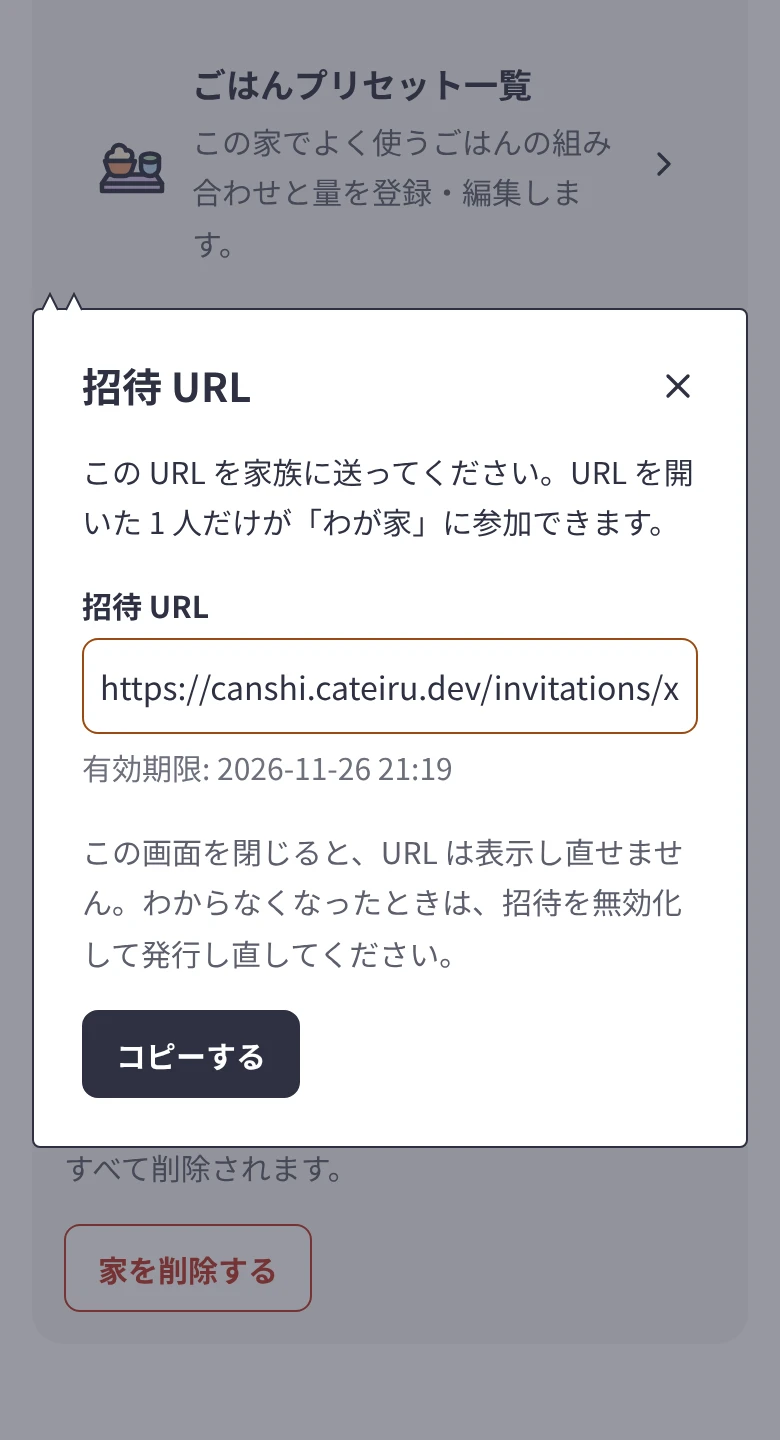
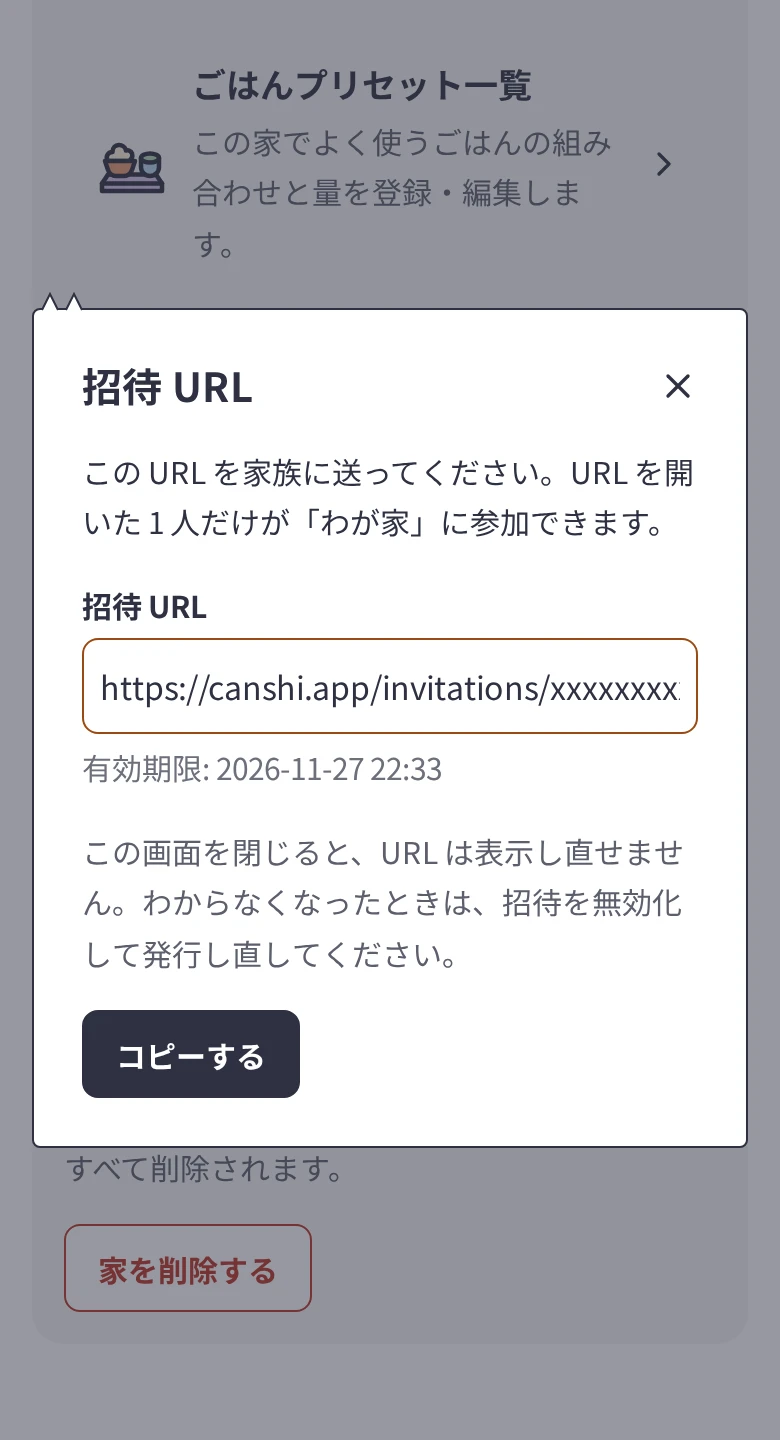
本番のドメインを canshi.app・管理画面を admin.canshi.app にする
- メインアプリの wrangler.toml に canshi.app のカスタムドメインを書き、workers.dev を無効にする
- 管理画面のカスタムドメインを admin.canshi.app にする
- デプロイ手順に本番のドメインと、ホスト名を変えるときの手順を書く
- ヘルプの招待 URL のスクリーンショットを新しいドメインで撮り直す

Closes #604

Claude-Session: https://claude.ai/code/session_01GXATvgY7GBav8iYF6mFh3K

diff --git a/e2e/help-screenshots.capture.ts b/e2e/help-screenshots.capture.ts
@@ -321,7 +321,7 @@ test("ヘルプのスクリーンショットを撮る", async ({ page, browser 
     .getByLabel("招待 URL")
     .evaluate((input) => {
       (input as HTMLInputElement).value =
-        "https://canshi.cateiru.dev/invitations/xxxxxxxxxxxxxxxx";
+        "https://canshi.app/invitations/xxxxxxxxxxxxxxxx";
     });
   await capture(page, "household-invitation");
   await page.keyboard.press("Escape");

diff --git a/packages/admin/src/app.test.tsx b/packages/admin/src/app.test.tsx
@@ -18,7 +18,7 @@ beforeEach(async () => {
   };
 });
 
-const ORIGIN = "https://canshi-admin.cateiru.dev";
+const ORIGIN = "https://admin.canshi.app";
 
 function request(path: string, init: RequestInit = {}) {
   return createApp().request(`${ORIGIN}${path}`, init, env);

diff --git a/packages/admin/README.md b/packages/admin/README.md
@@ -1,7 +1,7 @@
 # @canshi/admin
 
 CANSHI の運用者向けの管理画面。メインアプリ（`canshi`）とは別の
-Cloudflare Workers（Worker 名 `canshi-admin`）として動作し、`canshi-admin.cateiru.dev` で公開する。
+Cloudflare Workers（Worker 名 `canshi-admin`）として動作し、`admin.canshi.app` で公開する。
 [Hono](https://hono.dev/) の JSX でサーバーサイドレンダリングする。
 
 基本的には閲覧用で、書き込みはユーザーの権限の変更と、ユーザーをすべての端末からログアウトさせる
@@ -91,7 +91,7 @@ pnpm vrt:admin
 
 管理画面はアプリ内では認証せず、Cloudflare Access に任せる。家ごとの絞り込みをせず全ユーザー・
 全家の情報を表示するため、メインアプリの利用者（家族など）を含む Workers 全体の Access の
-ポリシーではなく、`canshi-admin.cateiru.dev` の Self-hosted アプリケーションに管理者だけを
+ポリシーではなく、`admin.canshi.app` の Self-hosted アプリケーションに管理者だけを
 許可するポリシーを付けて保護する。Self-hosted アプリケーションは Workers 全体の Access より
 優先され、Workers 全体の Access が適用されないカスタムドメインも確実に保護できる。
 
